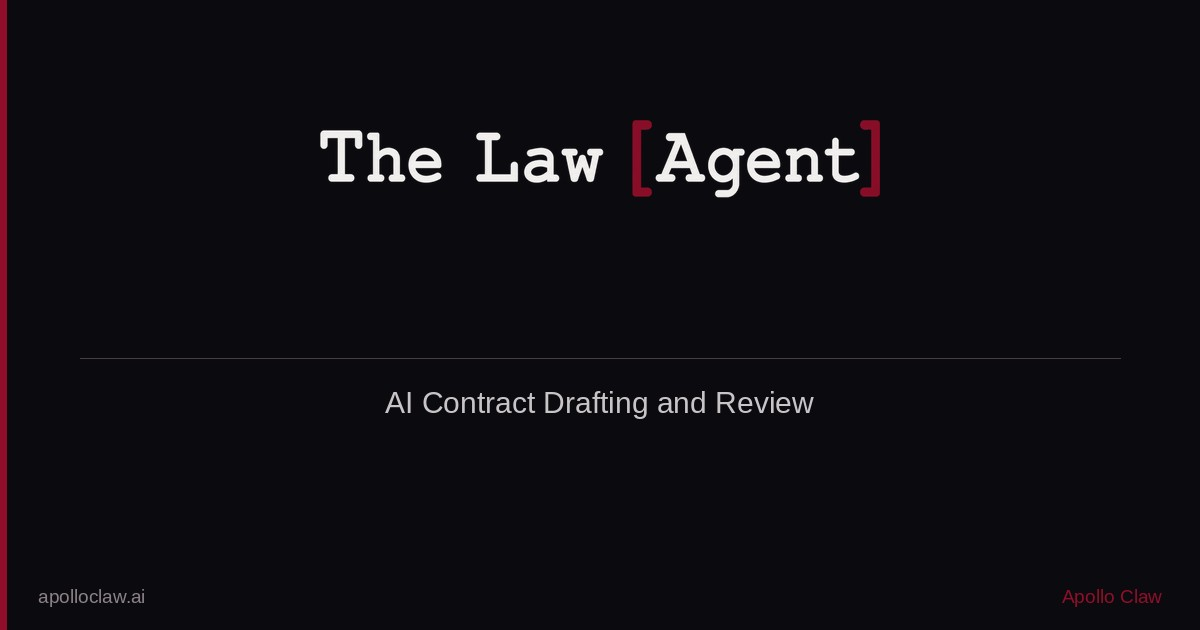
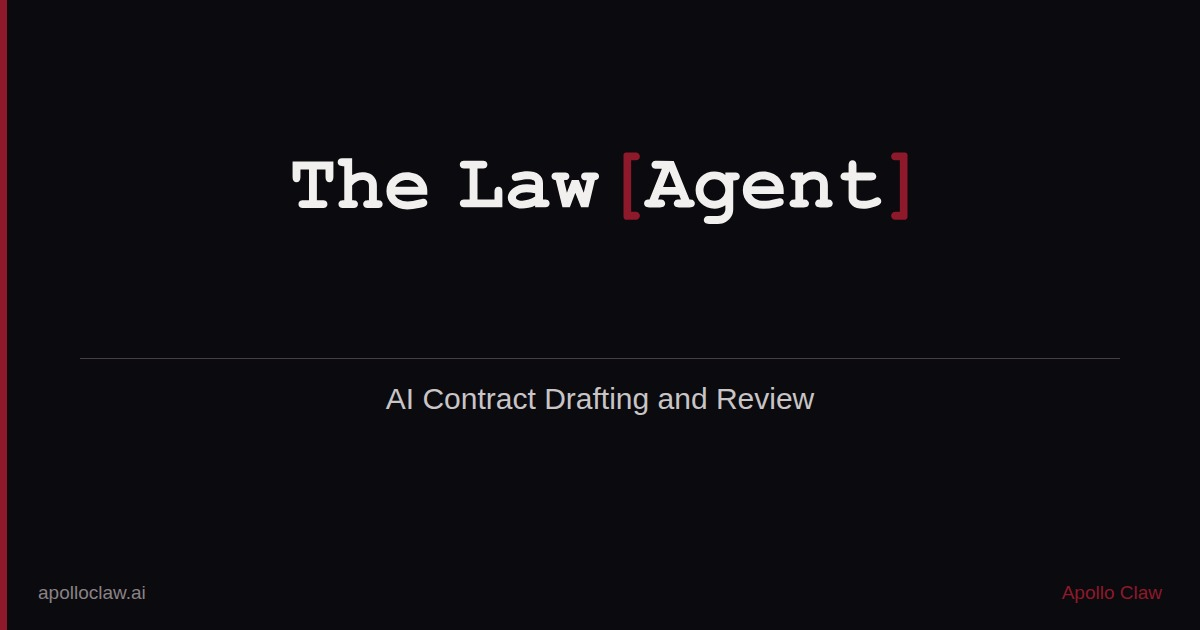
Use the official vector wordmark, and its exact brand colour
The brand assets are in Drive, one folder per agent. This replaces the raster I
had reconstructed from apolloclaw2 with the real thing.

COLOUR. The brackets are #8E192A, read out of the vector. I had sampled #900E29
off a scan, which is a close neighbour and still wrong; a brand colour should
come from the file that defines it. brand-dark, brand-tint and the ground are
re-derived from the corrected hue.

VIEWBOX. The Illustrator export keeps the full 4219x855 artboard while the mark
itself occupies 936,292 to 3283,564 - 56% of the width and 32% of the height. So
it rendered small in the nav and swam in whitespace on the OG card. Cropped the
viewBox to the artwork, measured with getBBox rather than estimated. Nothing is
redrawn; only the window onto it changes, and the nav, footer and OG card all
correct together.

157KB raster -> 10KB vector, and it now scales.

The OG card is regenerated by rendering HTML in headless Chromium rather than
compositing in PIL. That gets real text rendering, and it lets one CSS rule
colour the mark correctly for a dark ground: the glyph paths carry no fill
attribute so they inherit, and the two bracket paths set theirs explicitly and
keep it. Rendered tall and cropped, because the headless viewport comes back
shorter than the requested window and the first attempt clipped the footer.

Verified the nav, the OG card and a full build in a browser.

Claude-Session: https://claude.ai/code/session_019jzEKv1gKvmeiyK2s5KCZ3

diff --git a/tailwind.config.ts b/tailwind.config.ts
@@ -5,21 +5,22 @@ const config: Config = {
   theme: {
     extend: {
       colors: {
-        // Sampled from public/images/the-law-agent-wordmark.png - the crimson in the brackets,
-        // #900E29, is the brand.
+        // Read out of public/images/the-law-agent-wordmark.svg - the crimson the brackets are
+        // filled with, #8E192A, is the brand. Taken from the vector rather than sampled off a
+        // raster, so it is the exact value the logo uses and not a close neighbour.
         //
-        // Same two-tone problem the CFO site has, for the same reason: at 31% lightness this
+        // Same two-tone problem the CFO site has, for the same reason: at 33% lightness this
         // crimson is legible on the light grounds and disappears against the near-black one. So
         // `brand` is the wordmark colour and `brand-tint` is the same hue lifted, which is what
         // the dark sections use.
         brand: {
-          DEFAULT: "#900E29",
-          dark: "#620A1C",
-          tint: "#E07B90",
+          DEFAULT: "#8E192A",
+          dark: "#61111D",
+          tint: "#E07B8A",
         },
         // The dark ground carries a trace of the brand hue rather than being neutral black, so
         // the crimson sits on something rather than beside it.
-        ground: "#1C0B0E",
+        ground: "#1C0B0D",
         cream: "#F4F1EF",
         ink: "#1A1A1A",
       },

diff --git a/app/globals.css b/app/globals.css
@@ -7,14 +7,14 @@
    and hero are the one place worth writing real CSS, since every page shares them and
    the layout is fiddly. Change a colour in tailwind.config.ts and change it here. */
 :root {
-  --brand: #900e29;
-  --brand-dark: #620a1c;
-  --brand-tint: #e07b90;
-  --ground: #1c0b0e;
+  --brand: #8e192a;
+  --brand-dark: #61111d;
+  --brand-tint: #e07b8a;
+  --ground: #1c0b0d;
   /* Same two colours as RGB triplets. rgb(from ...) relative colour syntax would be
      tidier but is too new for older Safari, and this is a marketing site. */
-  --brand-rgb: 144, 14, 41;
-  --ground-rgb: 28, 11, 14;
+  --brand-rgb: 142, 25, 42;
+  --ground-rgb: 28, 11, 13;
   --ink: #1a1a1a;
   --cream: #f4f1ef;
   --font-mono: ui-monospace, SFMono-Regular, "SF Mono", Menlo, Monaco, "Cascadia Mono",

diff --git a/app/components/Nav.tsx b/app/components/Nav.tsx
@@ -25,7 +25,7 @@ export default function Nav() {
       <div className="nav-main">
         <Link href="/" aria-label={`${SITE_NAME} home`} className="nav-logo">
           {/* eslint-disable-next-line @next/next/no-img-element */}
-          <img src="/images/the-law-agent-wordmark.png" alt={SITE_NAME} />
+          <img src="/images/the-law-agent-wordmark.svg" alt={SITE_NAME} />
         </Link>
 
         <nav className="nav-links" aria-label="Main">

diff --git a/app/components/Footer.tsx b/app/components/Footer.tsx
@@ -18,7 +18,7 @@ export function Footer() {
             <Link href="/" aria-label={`${SITE_NAME} home`}>
               {/* eslint-disable-next-line @next/next/no-img-element */}
               <img
-                src="/images/the-law-agent-wordmark.png"
+                src="/images/the-law-agent-wordmark.svg"
                 alt={SITE_NAME}
                 className="w-44 h-auto"
               />
